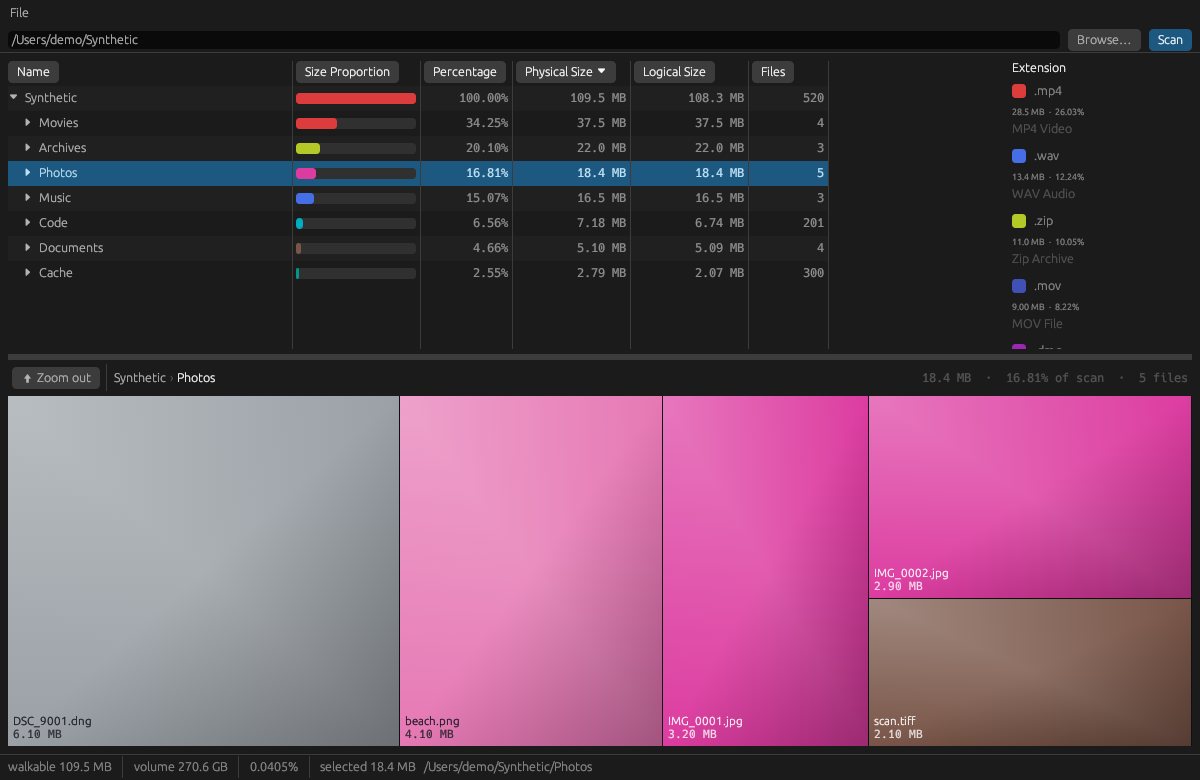
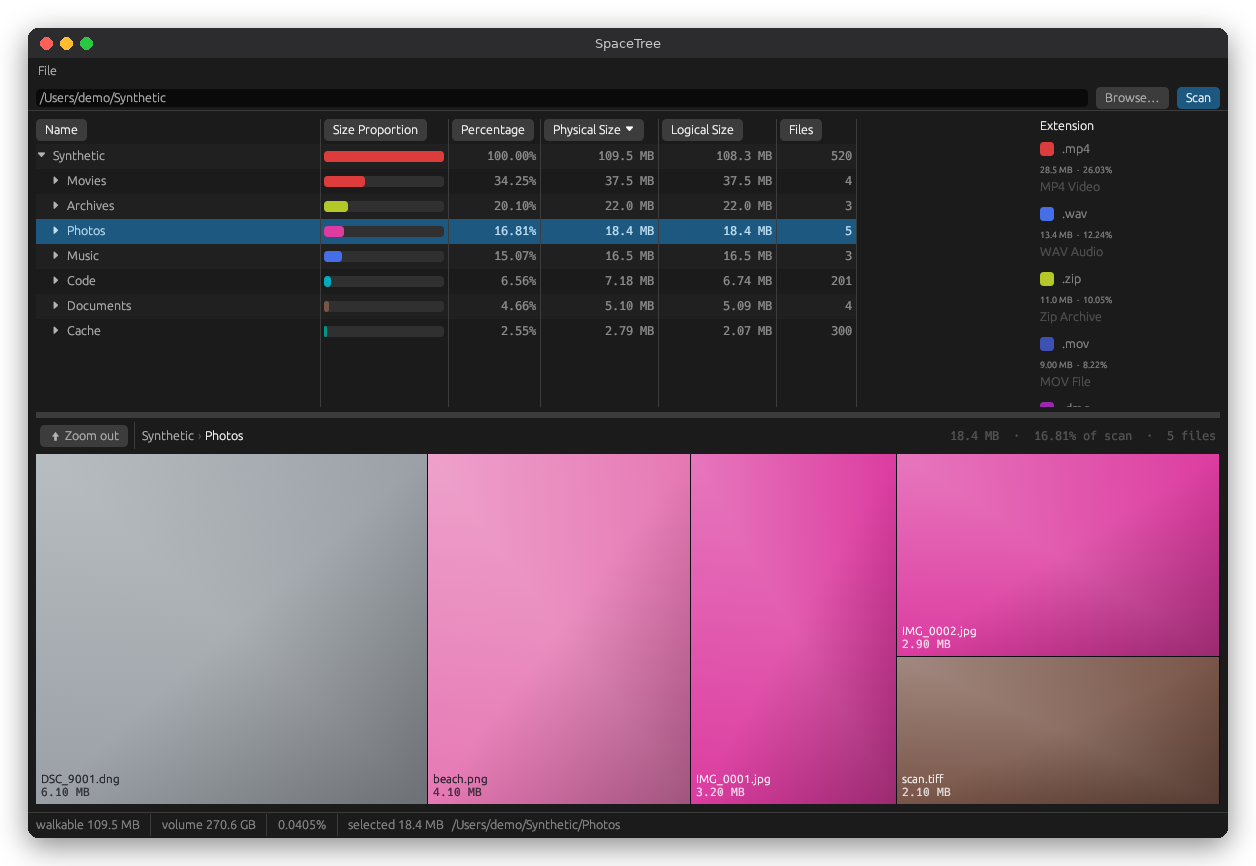
Frame screenshots in a macOS-style window (labeled mock-up)
Claude-Session: https://claude.ai/code/session_01YYQngMgRHEYQEbYDJbhyfX

Changed region(s): [[0.0, 0.0, 1.0, 1.0], [0.6783, 0.3385, 0.7092, 0.3692], [0.6475, 0.3692, 0.6783, 0.4]]

diff --git a/scripts/frame-screenshots.py b/scripts/frame-screenshots.py
@@ -1,0 +1,58 @@
+#!/usr/bin/env python3
+"""Wrap egui window captures in a macOS-style title bar (a mock-up, not a native capture).
+
+usage: frame-screenshots.py <png>...
+Already framed images (they have an alpha channel) are skipped, so this is safe to rerun.
+"""
+import sys
+
+from PIL import Image, ImageDraw, ImageFilter, ImageFont
+
+BAR_H, PAD, RADIUS = 30, 28, 10
+BAR = (44, 44, 46, 255)
+LIGHTS = [(255, 95, 87), (254, 188, 46), (40, 200, 64)]
+
+
+def font(size):
+    for path in ("/usr/share/fonts/truetype/dejavu/DejaVuSans.ttf",
+                 "/usr/share/fonts/truetype/liberation/LiberationSans-Regular.ttf"):
+        try:
+            return ImageFont.truetype(path, size)
+        except OSError:
+            pass
+    return ImageFont.load_default()
+
+
+def frame(path):
+    shot = Image.open(path)
+    if shot.mode == "RGBA":
+        print(f"skip {path}: already framed")
+        return
+    shot = shot.convert("RGBA")
+    w, h = shot.size
+    win_w, win_h = w, h + BAR_H
+    window = Image.new("RGBA", (win_w, win_h), BAR)
+    window.paste(shot, (0, BAR_H))
+    d = ImageDraw.Draw(window)
+    for i, rgb in enumerate(LIGHTS):
+        cx, cy = 18 + i * 20, BAR_H // 2
+        d.ellipse((cx - 6, cy - 6, cx + 6, cy + 6), fill=rgb + (255,))
+    f = font(13)
+    tw = d.textlength("SpaceTree", font=f)
+    d.text(((win_w - tw) / 2, BAR_H / 2 - 8), "SpaceTree", fill=(200, 200, 204, 255), font=f)
+    mask = Image.new("L", (win_w, win_h), 0)
+    ImageDraw.Draw(mask).rounded_rectangle((0, 0, win_w - 1, win_h - 1), RADIUS, fill=255)
+    out = Image.new("RGBA", (win_w + 2 * PAD, win_h + 2 * PAD), (0, 0, 0, 0))
+    shadow = Image.new("RGBA", out.size, (0, 0, 0, 0))
+    shadow.paste((0, 0, 0, 120), (PAD, PAD + 8), mask)
+    out = Image.alpha_composite(out, shadow.filter(ImageFilter.GaussianBlur(14)))
+    out.paste(window, (PAD, PAD), mask)
+    out.save(path)
+    print(f"framed {path}")
+
+
+if __name__ == "__main__":
+    if len(sys.argv) < 2:
+        sys.exit(__doc__)
+    for p in sys.argv[1:]:
+        frame(p)

diff --git a/scripts/capture-screenshots.py b/scripts/capture-screenshots.py
@@ -73,6 +73,8 @@ def main(binary, tree, out):
         time.sleep(0.6)
         shot(out, "treemap-zoom-breadcrumb.png")
         app.terminate(); app.wait()
+        pngs = [os.path.join(out, n) for n in os.listdir(out) if n.endswith(".png")]
+        subprocess.run([sys.executable, os.path.join(os.path.dirname(os.path.abspath(__file__)), "frame-screenshots.py"), *pngs], check=True)
     finally:
         xvfb.terminate()
 

diff --git a/screenshots/README.md b/screenshots/README.md
@@ -2,14 +2,14 @@
 
 `SpaceTree-9.28.26.jpeg` is the historical macOS screenshot. `before-treemap-main.png` shows an earlier treemap (unlabeled tiles, binary sizes labeled MB).
 
-The other PNGs are renders of the current UI on a synthetic tree (`/Users/demo/Synthetic`, about 110 MB in 520 generated files). They are egui renders under Xvfb on Linux with XTest pointer input, not native macOS captures: fonts and layout match egui on macOS, window chrome does not. Regenerate them with:
+The other PNGs are renders of the current UI on a synthetic tree (`/Users/demo/Synthetic`, about 110 MB in 520 generated files). They are egui renders under Xvfb on Linux with XTest pointer input, not native macOS captures. The title bar, traffic lights and drop shadow are a mock-up added by `scripts/frame-screenshots.py`; the content inside the window is the real egui render. Fonts and layout match egui on macOS. Regenerate them with:
 
 ```bash
 python3 scripts/make-synthetic-tree.py /Users/demo/Synthetic
 python3 scripts/capture-screenshots.py target/debug/spacetree /Users/demo/Synthetic screenshots
 ```
 
-(needs Xvfb, ImageMagick `import`, and `pip install python-xlib`)
+(needs Xvfb, ImageMagick `import`, `pip install python-xlib pillow`; the capture script frames each PNG at the end)
 
 | File | Shows |
 | --- | --- |
